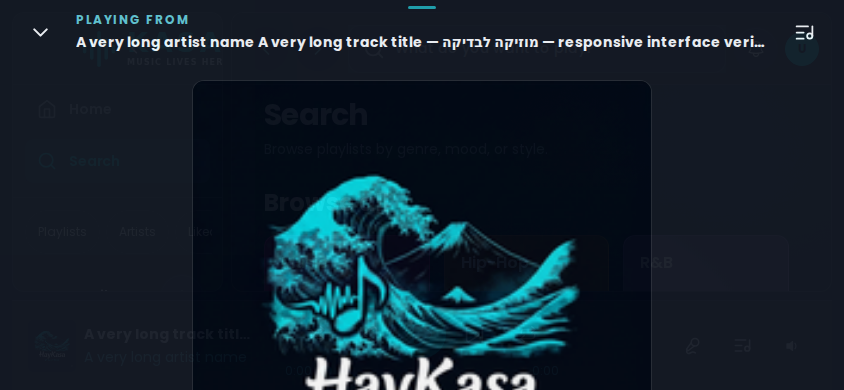
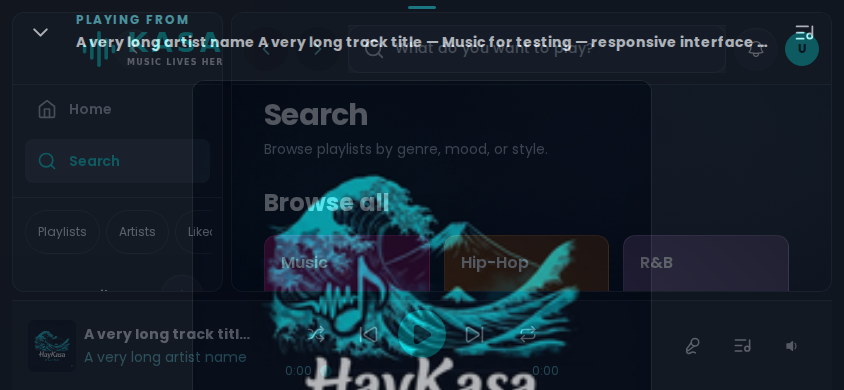
Use English sample text in UI fixtures and screenshots

diff --git a/e2e/fixtures/ui-redesign.js b/e2e/fixtures/ui-redesign.js
@@ -1,4 +1,4 @@
-const UI_TRACK = { id: "abcdefghijk", title: "A very long track title — מוזיקה לבדיקה — responsive interface verification", channel: "A very long artist name", thumbnail: "/icon-192x192.png" };
+const UI_TRACK = { id: "abcdefghijk", title: "A very long track title — Music for testing — responsive interface verification", channel: "A very long artist name", thumbnail: "/icon-192x192.png" };
 
 async function installUiFixtures(page, { playback = false, accent = null } = {}) {
   await page.addInitScript(({ track, playbackEnabled, customAccent }) => {
